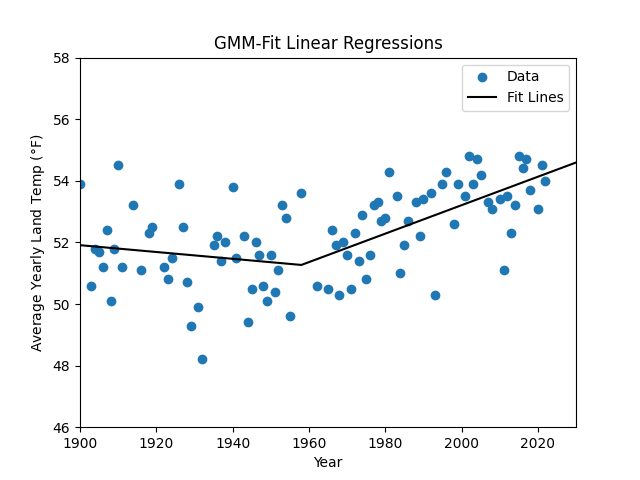
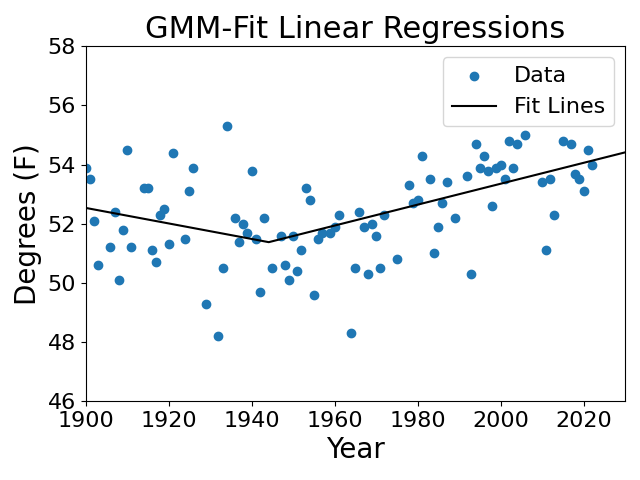
Update plot formatting

diff --git a/data_cleaning_2.py b/data_cleaning_2.py
@@ -63,7 +63,7 @@ def get_year_noNaNs(year: int):
     return year - 1850
 
 gt_data_land_temps = gt_data_filtered[0, :, 3:][:, 97:]
-print("Land temp data shape:", gt_data_land_temps.shape)
+print("Land Temperature data shape:", gt_data_land_temps.shape)
 
 # # eg: gt_data_land_temps[:, get_year_land(1800)] # returns the land average temperatures for every month in the year 1800
 
@@ -217,13 +217,14 @@ CS = plt.contour(
 
 # CB = plt.colorbar(CS, shrink=0.8, extend="both")
 
-plt.title("GMM Component Probability Likelihood")
+plt.title("GMM Component Probability Likelihood", fontsize=22)
 plt.axis("tight")
 plt.ylim((46, 58))
-plt.ylabel("Average Yearly Land Temp ($\degree$F)")
-plt.xlabel("Year")
-plt.xlim((1900, 2030))
-plt.legend()
+plt.ylabel("Degrees (F)", fontsize=20)
+plt.xlabel("Year", fontsize=20)
+plt.tick_params(axis='both', labelsize=16)
+plt.legend(fontsize=16)
+plt.tight_layout()
 plt.savefig("tex_dir/figures/gmm1.png")
 
 plt.clf()
@@ -235,13 +236,15 @@ plt.scatter(xt, yt, label="Data")
 plt.contour(
     X[X > 1930].reshape(50, -1), Y[X > 1930].reshape(50, -1), (Z2[:, :, 0] - Z2[:, :, 1])[X > 1930].reshape(50, -1), levels=np.linspace(-.5, .5, 3), label="Component Membership Prob. Bounds"
 )
-plt.title("GMM Difference of Membership Probability Contours")
+plt.title("GMM Difference of Membership Probability Contours", fontsize=22)
 plt.axis("tight")
 plt.ylim((46, 58))
-plt.ylabel("Average Yearly Land Temp ($\degree$F)")
-plt.xlabel("Year")
+plt.ylabel("Degrees (F)", fontsize=20)
+plt.xlabel("Year", fontsize=20)
 plt.xlim((1900, 2030))
-plt.legend()
+plt.tick_params(axis='both', labelsize=16)
+plt.legend(fontsize=16)
+plt.tight_layout()
 plt.savefig("tex_dir/figures/gmm2.png")
 
 plt.clf()
@@ -253,13 +256,15 @@ plt.scatter(xt, yt, label="Data")
 # plt.plot(x, line2.predict(x.reshape(-1, 1)))
 linx = np.linspace(1900, 2040, 1000)
 plt.plot(linx, np.where(line1.predict(linx.reshape(-1, 1)) > line2.predict(linx.reshape(-1, 1)), line1.predict(linx.reshape(-1, 1)), line2.predict(linx.reshape(-1, 1))), 'k', label="Fit Lines")
-plt.title("GMM-Fit Linear Regressions")
+plt.title("GMM-Fit Linear Regressions", fontsize=22)
 plt.axis("tight")
 plt.ylim((46, 58))
-plt.ylabel("Average Yearly Land Temp ($\degree$F)")
-plt.xlabel("Year")
+plt.ylabel("Degrees (F)", fontsize=20)
+plt.xlabel("Year", fontsize=20)
 plt.xlim((1900, 2030))
-plt.legend()
+plt.tick_params(axis='both', labelsize=16)
+plt.legend(fontsize=16)
+plt.tight_layout()
 plt.savefig("tex_dir/figures/gmm3.png")
 
 
